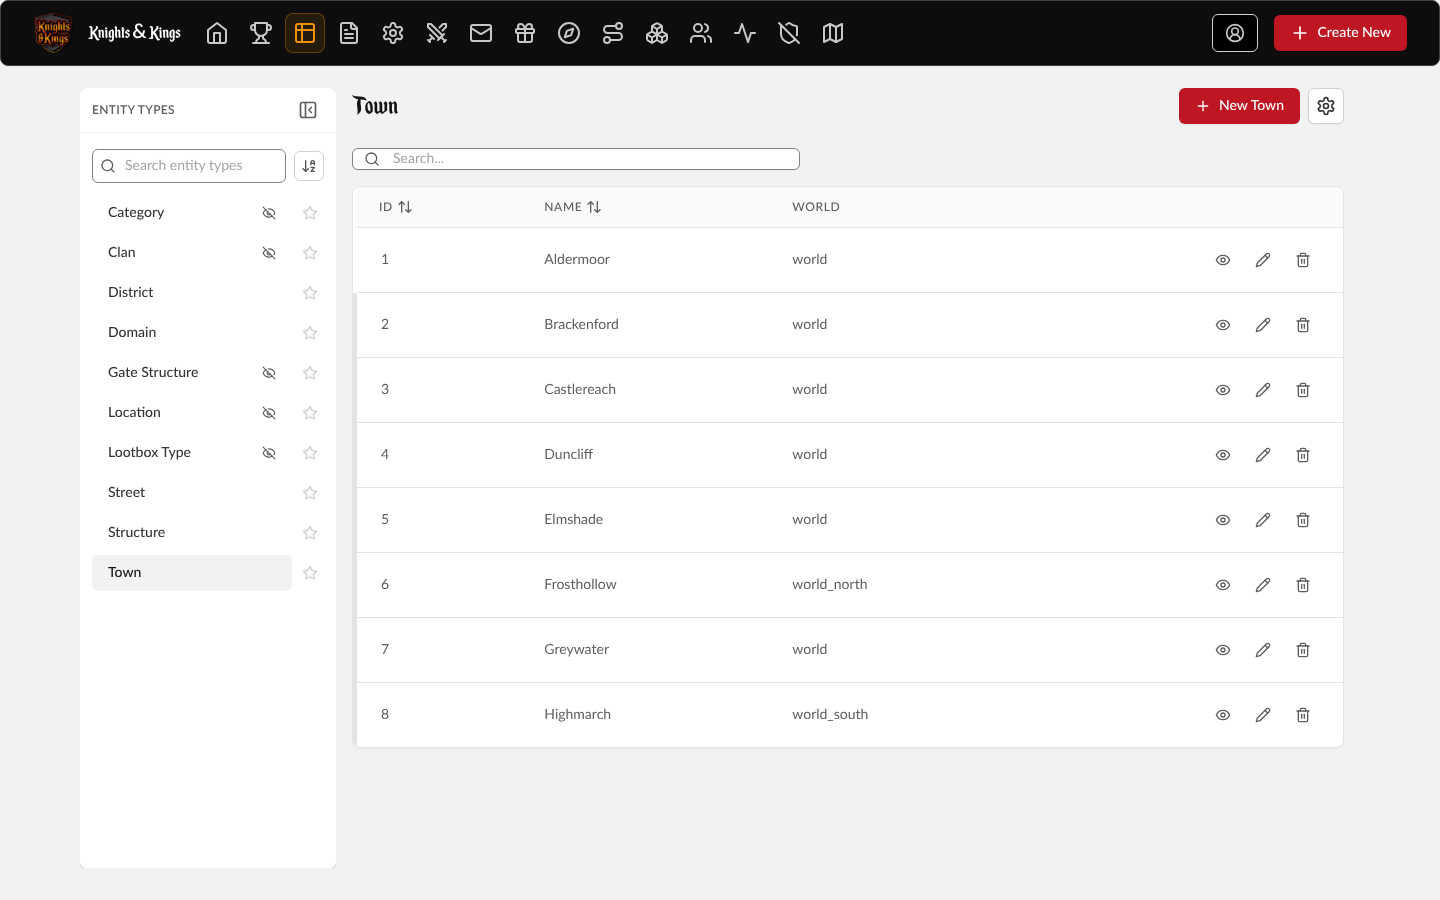
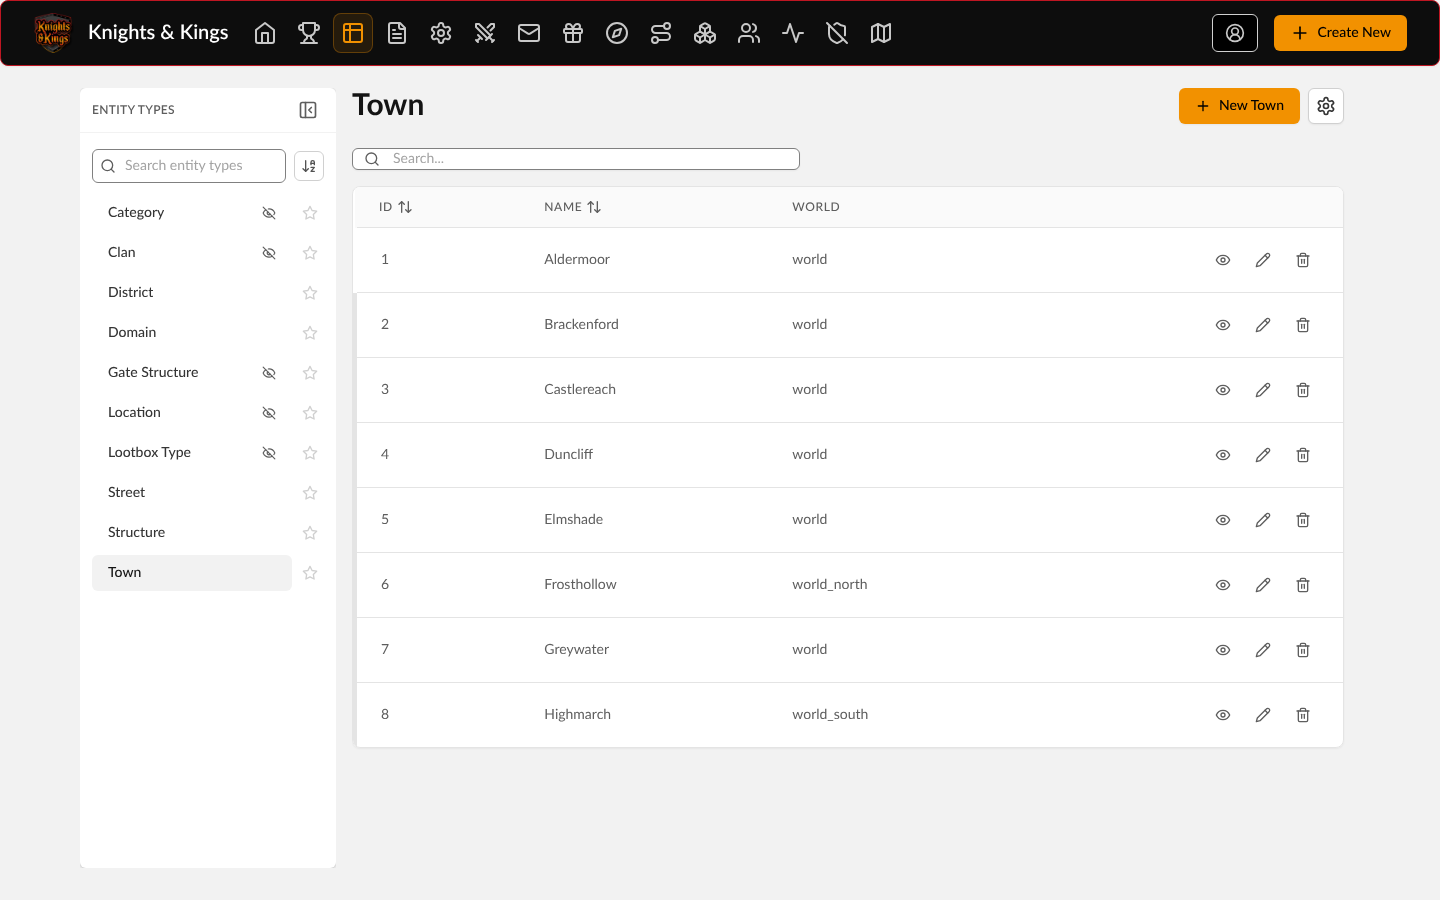
Design themes fix round after the live comparison (#95, #92)
Guide: developer's results and decisions of 2026-11-03 (orange brand
primary, heading font on player-facing pages only, Lato stays, full-bleed
auth/landing, picker for testers), status line, section 6. Alpha build:
REACT_APP_THEME_PICKER=on in scripts/alpha-web (Dockerfile, README) and
alpha-go-live § 6. Architecture, CHANGELOG, screenshots retaken.

Claude-Session: https://claude.ai/code/session_01R1w2UvqJGJj4ioe49HCZGy

diff --git a/docs/architecture/web-app-architecture.md b/docs/architecture/web-app-architecture.md
@@ -1,7 +1,7 @@
 # knk-web-app — Architecture
 
 **Status:** Living document — reflects actual code, updated in place on each rescan
-**Last updated:** 2026-09-18 (scan basis: `knk-web-app` @ `4ff5dc6`, branch `claude/web-app-codebase-scan-4yqibi`); spot edits 2026-10-09 (ObjectTypeExplorer, KNG-61), 2026-10-10 (FormWizard Boolean fields, KNG-53), 2026-10-12 (FormWizard child forms, KNG-133, KNG-134; List edit load, step header, List validation, KNG-135, KNG-137, KNG-164; form session registry, KNG-136; cancel / delete-draft prompt, KNG-162; form configuration export/import, KNG-138); 2026-10-17 (form wizard chain merged to `main`; smoke-test follow-ups KNG-166..169, KNG-172, KNG-173: step strip, confirmations and refusals, rule builder parent forms, picker columns, metadata refresh); 2026-10-22 (display configuration export/import; KNG-195 hybrid picker submit); 2026-10-23 (step completion conditions run, KNG-186); 2026-10-23 (validation result log, batch validate, Re-check, KNG-269); 2026-10-25 (toast region, world-task polling; UX re-evaluation in `reports/2026-10-25-web-app-ux-reevaluation.md`); 2026-10-26 (dashboard type in the URL, `returnTo`, submit pending state, success toast — PandiO/knk-workspace#177 link 1, #58); 2026-10-26 (dashboard header New/Configure, flat explorer with marker, open form without the explorer + breadcrumb, detail page header, metadata-driven Create New, "Entity setup" — #177 link 2, #81, #39); 2026-10-26 (dashboard explorer: one scrollbar, favourite types — #194, branch `claude/dashboard-explorer-194`, merged into `main` `c3c0c9f`), 2026-10-26 (dashboard header row spacing — #195, branch `claude/dashboard-header-195`, merged into `main` `c3c0c9f`); 2026-10-26 (data router, unsaved-changes guard, sticky footer, blur validation + error summary, Save on any step in edit mode, single-line input, drafts owned by the login — #109, #186, #64 FormWizard part); 2026-10-27 (unsaved changes compared by value across all steps, Next's progress save no longer counts as saved — #109 fix round); 2026-11-02 (design tokens and switchable themes — #95, branch `claude/design-tokens-95`, not merged)
+**Last updated:** 2026-09-18 (scan basis: `knk-web-app` @ `4ff5dc6`, branch `claude/web-app-codebase-scan-4yqibi`); spot edits 2026-10-09 (ObjectTypeExplorer, KNG-61), 2026-10-10 (FormWizard Boolean fields, KNG-53), 2026-10-12 (FormWizard child forms, KNG-133, KNG-134; List edit load, step header, List validation, KNG-135, KNG-137, KNG-164; form session registry, KNG-136; cancel / delete-draft prompt, KNG-162; form configuration export/import, KNG-138); 2026-10-17 (form wizard chain merged to `main`; smoke-test follow-ups KNG-166..169, KNG-172, KNG-173: step strip, confirmations and refusals, rule builder parent forms, picker columns, metadata refresh); 2026-10-22 (display configuration export/import; KNG-195 hybrid picker submit); 2026-10-23 (step completion conditions run, KNG-186); 2026-10-23 (validation result log, batch validate, Re-check, KNG-269); 2026-10-25 (toast region, world-task polling; UX re-evaluation in `reports/2026-10-25-web-app-ux-reevaluation.md`); 2026-10-26 (dashboard type in the URL, `returnTo`, submit pending state, success toast — PandiO/knk-workspace#177 link 1, #58); 2026-10-26 (dashboard header New/Configure, flat explorer with marker, open form without the explorer + breadcrumb, detail page header, metadata-driven Create New, "Entity setup" — #177 link 2, #81, #39); 2026-10-26 (dashboard explorer: one scrollbar, favourite types — #194, branch `claude/dashboard-explorer-194`, merged into `main` `c3c0c9f`), 2026-10-26 (dashboard header row spacing — #195, branch `claude/dashboard-header-195`, merged into `main` `c3c0c9f`); 2026-10-26 (data router, unsaved-changes guard, sticky footer, blur validation + error summary, Save on any step in edit mode, single-line input, drafts owned by the login — #109, #186, #64 FormWizard part); 2026-10-27 (unsaved changes compared by value across all steps, Next's progress save no longer counts as saved — #109 fix round); 2026-11-02 (design tokens and switchable themes — #95, branch `claude/design-tokens-95`, not merged); 2026-11-03 (fix round after the live comparison: orange brand primary, heading font on player pages only, full-bleed auth pages)
 **Source scan:** `docs/reports/web-app-scan-2026-09-18.md`
 
 ## Stack
@@ -44,15 +44,20 @@ _Added 2026-11-02 for PandiO/knk-workspace#95 (rebrand phase 1), knk-web-app bra
   `current`. Two layers:
   - Neutral ramps `--gray-50…950` and `--slate-50…950`. `tailwind.config.js` maps Tailwind's `gray` and `slate` to
     them, so all ~2,600 gray/slate classes follow the theme without edits (Tailwind's own values in `current`).
-  - Semantic tokens `--color-*`, Tailwind keys: `primary` (`DEFAULT`, `dark` hover, `light` icons only, `fg`), `cta`
+  - Semantic tokens `--color-*`, Tailwind keys: `primary` (`DEFAULT`, `dark` hover, `light` icons only, `fg`; as text,
+    border, ring or divide it reads `--color-primary-text`, `-text-dark` and `-line` through Tailwind's `textColor` /
+    `borderColor` / `ringColor` / `divideColor`, because the `brand` fill orange is too light for text on white), `cta`
     (`DEFAULT`, `dark`, `fg`), `canvas` (page), `surface` (`DEFAULT`, `alt`, `hover`), `fg` (text), `muted`
     (secondary text), `line` (decorative borders), `field` (form field borders, 3:1), `focus` (rings), `backdrop`
-    (`DEFAULT`, `fg`: behind the auth cards), `nav` (`DEFAULT`, `fg`, `muted`, `hover`, `line`, `accent`; `--color-nav-action*` colours a `.btn-primary` inside the bar), and
+    (`DEFAULT`, `fg`: behind the auth cards), `nav` (`DEFAULT`, `fg`, `muted`, `hover`, `line`, `accent`, `focus`; `--color-nav-action*` colours a `.btn-primary`
+    inside the bar), and
     `danger` / `success` / `warning` / `info`, each with `DEFAULT` (text/icon/filled), `strong` (text on the tints),
     `soft` (alert background), `muted` (badge background), `line` (alert border) and `fg` (text on the filled colour;
     not for info). The key `primary` kept its name, so its ~580 uses switch with no component edit.
-  - Fonts: `--font-body` (Tailwind `font-sans`, the body) and `--font-display` (Tailwind `font-display`; `h1`,
-    the dashboard and detail page titles, the nav title; no faux bold). `current` keeps `'Inter', sans-serif` (Inter is never loaded: the Google `@import` in
+  - Fonts: `--font-body` (Tailwind `font-sans`, the body) and `--font-display` (Tailwind `font-display`): `h1` on
+    player-facing pages only, no faux bold. A player-facing page calls `usePublicSurface()` (`src/theme/surface.ts`),
+    which sets `data-surface="public"` on `<html>` while it is mounted; admin pages and the nav title keep the body
+    font (developer's rule 2026-11-03; the brand guide sets no such limit). `current` keeps `'Inter', sans-serif` (Inter is never loaded: the Google `@import` in
     `index.css` comes after other rules, so the system sans renders, as before). Lato 2.015 and Cinzel are
     self-hosted under the OFL in `src/theme/fonts/` and only downloaded when a theme uses them. `brand` uses the
     Enchanted Land **demo** (personal-use licence, readme kept alongside; a webfont licence is needed once the
@@ -66,6 +71,8 @@ _Added 2026-11-02 for PandiO/knk-workspace#95 (rebrand phase 1), knk-web-app bra
 - **Contrast:** `src/theme/__tests__/contrast.test.ts` parses `tokens.css` and checks every text/background pair
   (4.5:1) and UI pair (field border, focus ring, nav underline, icons: 3:1) in every theme, plus that every theme
   defines the same tokens. A failing pair fails `npm run test:ci`.
+- **Full-bleed public layout:** `.public-full-bleed` (auth pages' `<main>`, the landing root) is fixed to the
+  window in `brand` and `proposal`, so the dark backdrop fills it; `current` keeps the padded layout.
 - **Accessibility base rules** in `index.css` (all themes): a 2px `--color-focus` ring on every focused text field
   (specificity 0,1,1: it loses to a field's own `focus:ring-*`); `--color-field` on `border-gray-300` /
   `border-slate-300` fields; `--color-danger` (and a 1px width) on `border-red-300` fields; `.field-error` puts an

diff --git a/docs/CHANGELOG.md b/docs/CHANGELOG.md
@@ -7,12 +7,16 @@ This is a human-readable record of capabilities merged into the V3 default branc
 - **Design tokens and switchable themes (rebrand phase 1)** — knk-web-app and knk-workspace `claude/design-tokens-95`
   (PandiO/knk-workspace#95, 2026-11-02). Every colour of the web app is now a theme token (CSS variables that
   Tailwind reads), with three themes to compare live: `current` (today's look, the default), `brand` (the 2020
-  styleguide: brand red, orange call to action, black navigation, Lato 2.015, headings in the
+  styleguide: orange primary and call to action, black navigation, Lato 2.015, headings in the
   Enchanted Land demo font) and `proposal` (charcoal, orange accents, red only for danger, warm neutrals, Cinzel headings). Staff switch them in
   the account menu; `?theme=` picks one per tab. A unit test checks WCAG AA contrast of every token pair in every
   theme. Accessibility fixes in all themes: `text-gray-400` → a 4.5:1 secondary text colour, a focus ring on every
   text field, 3:1 field borders, a visible red border and an icon on field errors, darker primary-button hover.
-  Not merged, not compared live. Guide: [guides/design-themes-comparison.md](guides/design-themes-comparison.md).
+  Compared live by the developer 2026-11-03; fix round: `brand` primary is the guide's orange (black text,
+  a darker orange for links), red stays for danger and as an accent; the decorative heading font only on
+  player-facing pages (Lato on admin pages); full-bleed dark auth and landing pages in `brand`/`proposal`; the alpha
+  build shows the picker to testers (`REACT_APP_THEME_PICKER=on`). Not merged. Guide:
+  [guides/design-themes-comparison.md](guides/design-themes-comparison.md).
 
 ## 2026-11-01
 

diff --git a/scripts/alpha-web/README.md b/scripts/alpha-web/README.md
@@ -5,7 +5,7 @@ Build files for `knk-web-app:alpha-<sha>`. They are copied into `/srv/docker/bui
 
 | File | Use |
 |---|---|
-| `Dockerfile` | Two stages:<br>• build: `node:24-bookworm-slim`, `npm ci`, `npm run build` with `REACT_APP_API_BASE_URL=/api`, `REACT_APP_MC_SERVER_ADDRESS=play.knightsandkings.net`, no source maps, no Cypress binary;<br>• runtime: `nginxinc/nginx-unprivileged:1.28-alpine` (UID 101, port 8080).<br>Both pinned by digest |
+| `Dockerfile` | Two stages:<br>• build: `node:24-bookworm-slim`, `npm ci`, `npm run build` with `REACT_APP_API_BASE_URL=/api`, `REACT_APP_MC_SERVER_ADDRESS=play.knightsandkings.net`, `REACT_APP_THEME_PICKER=on` (testers see the theme picker, #95), no source maps, no Cypress binary;<br>• runtime: `nginxinc/nginx-unprivileged:1.28-alpine` (UID 101, port 8080).<br>Both pinned by digest |
 | `nginx.conf` | The `app.knightsandkings.net` server. It serves the SPA (deep links → `index.html`, `/static/` cached for a year, `index.html` no-cache) and proxies `/api/` to `api:5000`. Docker DNS through a variable upstream, so nginx starts without the API. Passes `CF-Connecting-IP` as `X-Forwarded-For`, plus `X-Forwarded-Proto: https`. `/health/` is denied. Sets `nosniff`, `DENY` and `Referrer-Policy` headers |
 | `.dockerignore` | Leaves `node_modules`, `build`, `cypress` and `.git` out of the context |
 

diff --git a/docs/guides/alpha-go-live.md b/docs/guides/alpha-go-live.md
@@ -353,8 +353,12 @@ admission.kick" without the code.
 
 ```bash
 # in knk-web-app at the main commit you package
-REACT_APP_API_BASE_URL=/api REACT_APP_MC_SERVER_ADDRESS=play.knightsandkings.net CI=false npm run build
+REACT_APP_API_BASE_URL=/api REACT_APP_MC_SERVER_ADDRESS=play.knightsandkings.net REACT_APP_THEME_PICKER=on CI=false npm run build
 ```
+
+`REACT_APP_THEME_PICKER=on` shows the theme picker (account menu) to every logged-in alpha tester, so they can try the
+three themes (#95, developer decision 2026-11-03; the app's default is staff only). Leave it out to keep the picker for
+staff. See [design-themes-comparison.md](design-themes-comparison.md).
 
 **nginx:** the server block for `app.knightsandkings.net`. nginx has to share a network with `api`: attach the existing
 `core`-stack nginx to an alpha network, or add a small nginx container to the `knk-alpha` stack that `cloudflared`
